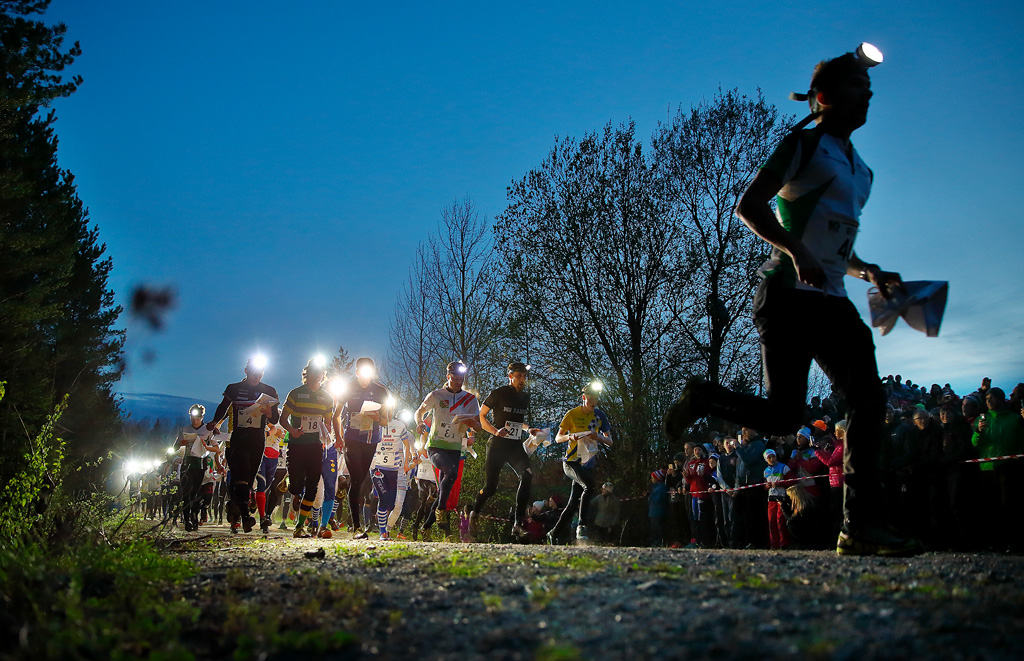
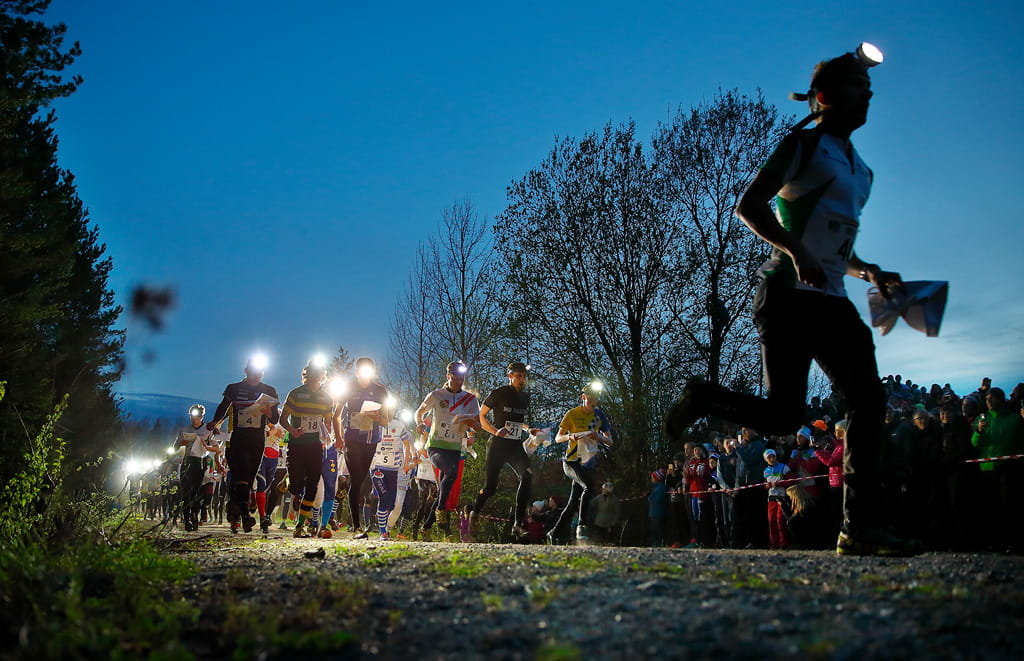
Optimize images to make website load faster

diff --git a/src/routes/about/+page.svelte b/src/routes/about/+page.svelte
@@ -8,20 +8,20 @@
     More about me
 </h1>
 
-<h2 class="text-2xl font-bold pb-4">
+<h2 class="text-lg xs:text-2xl font-bold pb-4">
     One of my most exciting orienteering memories so far:
 </h2>
 
 <figure class="flex flex-col items-center">
     <img
-        src="/images/Tiomila2015.jpg"
+        src="/images/Tiomila2015.webp"
         alt="Nighttime start of the Tiomila 2015 orienteering relay"
         class="max-w-5xl pb-4 w-full"
     />
     <figcaption class="max-w-prose">
         Seconds after the start of Tiomila 2015, one of the world's largest
-        relays. I ran the first leg and somehow got to the top 5 as we left the
-        arena, later finishing the course as <Link
+        orienteering relays. I ran the first leg and somehow got to the top 5 as
+        we left the arena, later finishing the course as <Link
             href="https://10mila.se/index.php/sv/?option=com_tiomilaresults&year=70&class=8&leg=1&total=1"
             compact
         >

diff --git a/src/routes/+page.svelte b/src/routes/+page.svelte
@@ -12,7 +12,7 @@
 </script>
 
 <img
-    src="/images/samuel.png"
+    src="/images/samuel.webp"
     alt="Samuel"
     class="rounded-full shadow-2xl mx-auto w-32 h-32 sm:w-40 sm:h-40 my-8"
 />
